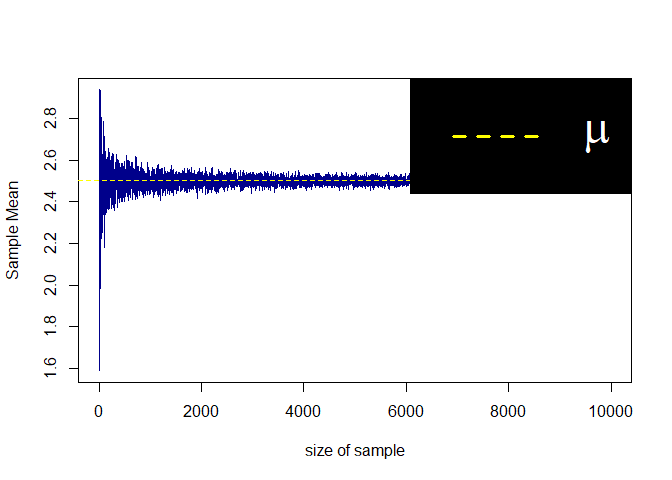
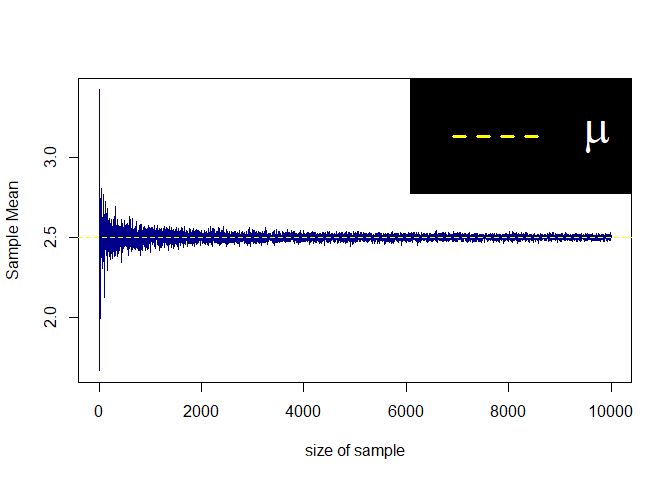
updated

diff --git a/create_matrix_triangular_simulate_Normal_Restricted.html b/create_matrix_triangular_simulate_Normal_Restricted.html
@@ -659,8 +659,8 @@ arguments.</h4>
 <span id="cb5-12"><a href="#cb5-12" aria-hidden="true" tabindex="-1"></a>}</span>
 <span id="cb5-13"><a href="#cb5-13" aria-hidden="true" tabindex="-1"></a>s <span class="ot">&lt;-</span> <span class="fu">create_normal_restrict</span>(<span class="at">size =</span> <span class="dv">10</span>, <span class="at">Mu =</span> <span class="dv">0</span>, <span class="at">Sig =</span> <span class="dv">2</span>, <span class="at">a =</span> <span class="dv">2</span>, <span class="at">b =</span> <span class="dv">4</span>)</span>
 <span id="cb5-14"><a href="#cb5-14" aria-hidden="true" tabindex="-1"></a>s</span></code></pre></div>
-<pre><code>##  [1] 3.052545 3.152677 2.841796 2.597047 3.216420 3.803350 3.361150 2.828218
-##  [9] 2.246507 3.528270 2.176596</code></pre>
+<pre><code>##  [1] 2.198382 3.666525 3.419035 2.260756 2.210368 2.087077 3.543708 3.633252
+##  [9] 3.591801 2.840085 2.103060</code></pre>
 <div class="sourceCode" id="cb7"><pre class="sourceCode r"><code class="sourceCode r"><span id="cb7-1"><a href="#cb7-1" aria-hidden="true" tabindex="-1"></a><span class="fu">all</span>(s <span class="sc">&gt;</span> <span class="dv">2</span>) <span class="sc">&amp;&amp;</span> <span class="fu">all</span>(s <span class="sc">&lt;</span> <span class="dv">4</span>)</span></code></pre></div>
 <pre><code>## [1] TRUE</code></pre>
 <hr />
@@ -680,9 +680,9 @@ arguments.</h4>
 <span id="cb9-12"><a href="#cb9-12" aria-hidden="true" tabindex="-1"></a>}</span>
 <span id="cb9-13"><a href="#cb9-13" aria-hidden="true" tabindex="-1"></a>s <span class="ot">&lt;-</span> <span class="fu">create_normal_restrict</span>(<span class="at">size =</span> <span class="dv">20</span>, <span class="at">Mu =</span> <span class="dv">2</span>, <span class="at">Sig =</span> <span class="dv">3</span>, <span class="at">a =</span> <span class="dv">3</span>, <span class="at">b =</span> <span class="dv">5</span>)</span>
 <span id="cb9-14"><a href="#cb9-14" aria-hidden="true" tabindex="-1"></a>s</span></code></pre></div>
-<pre><code>##  [1] 4.279872 3.157285 4.485590 3.151667 3.479212 3.408565 4.241121 3.784406
-##  [9] 3.970894 3.320588 3.551378 3.783441 3.564179 4.177438 3.124133 4.996380
-## [17] 3.011841 3.521824 3.351093 4.633351</code></pre>
+<pre><code>##  [1] 3.601853 4.881067 3.756975 4.592548 4.887475 3.901063 3.212241 3.064122
+##  [9] 3.012755 3.548587 4.755485 3.475494 3.815874 3.689829 4.308102 4.139682
+## [17] 3.963975 3.904174 3.428803 4.154396</code></pre>
 <div class="sourceCode" id="cb11"><pre class="sourceCode r"><code class="sourceCode r"><span id="cb11-1"><a href="#cb11-1" aria-hidden="true" tabindex="-1"></a><span class="fu">all</span>(s <span class="sc">&gt;</span> <span class="dv">3</span>) <span class="sc">&amp;&amp;</span> <span class="fu">all</span>(s <span class="sc">&lt;</span> <span class="dv">5</span>)</span></code></pre></div>
 <pre><code>## [1] TRUE</code></pre>
 <hr />
@@ -707,27 +707,27 @@ prove the weak law of large numbers</h4>
 <span id="cb13-16"><a href="#cb13-16" aria-hidden="true" tabindex="-1"></a>}</span>
 <span id="cb13-17"><a href="#cb13-17" aria-hidden="true" tabindex="-1"></a></span>
 <span id="cb13-18"><a href="#cb13-18" aria-hidden="true" tabindex="-1"></a>Result <span class="ot">&lt;-</span> <span class="fu">Weak_law_large_num</span>(<span class="at">size =</span> <span class="fl">1e+4</span>, <span class="at">Mu =</span> <span class="fl">2.5</span>, <span class="at">showPlot =</span> T) </span></code></pre></div>
[2 lines of base64/hex data omitted]
 <div class="sourceCode" id="cb14"><pre class="sourceCode r"><code class="sourceCode r"><span id="cb14-1"><a href="#cb14-1" aria-hidden="true" tabindex="-1"></a>E <span class="ot">&lt;-</span> Result<span class="sc">$</span>list_result</span>
 <span id="cb14-2"><a href="#cb14-2" aria-hidden="true" tabindex="-1"></a>E[[<span class="dv">5</span>]]</span></code></pre></div>
-<pre><code>## [1] 1.689949 2.011948 2.958791 1.338709 2.319952</code></pre>
+<pre><code>## [1] 1.782495 2.694781 3.797808 3.729486 1.479509</code></pre>
 <div class="sourceCode" id="cb16"><pre class="sourceCode r"><code class="sourceCode r"><span id="cb16-1"><a href="#cb16-1" aria-hidden="true" tabindex="-1"></a>E[[<span class="dv">10</span>]]</span></code></pre></div>
-<pre><code>##  [1] 2.866425 1.396811 5.020024 2.701937 1.814469 3.827689 2.784728 2.185148
-##  [9] 2.031921 1.913772</code></pre>
+<pre><code>##  [1] 2.799118 1.642318 2.617260 1.040967 3.615583 2.518560 2.865432 3.579252
+##  [9] 1.051340 4.415267</code></pre>
 <div class="sourceCode" id="cb18"><pre class="sourceCode r"><code class="sourceCode r"><span id="cb18-1"><a href="#cb18-1" aria-hidden="true" tabindex="-1"></a>E[[<span class="dv">20</span>]]</span></code></pre></div>
-<pre><code>##  [1] -0.4829301  4.0468436  3.0461689  2.6099620  1.5166851  2.4218403
-##  [7]  4.6233172  0.8834062  3.1885865  2.7486370  4.6068982  1.8252190
-## [13]  2.3245541  2.6008667  2.2467537  3.0760220  2.4866580  3.9017023
-## [19]  3.1929782  2.8067127</code></pre>
+<pre><code>##  [1] 3.1231454 2.2009263 3.3762097 0.5486886 1.7647368 1.5196758 1.1547574
+##  [8] 3.0509802 3.1959233 2.9478989 1.1680538 2.7879512 2.2539875 2.5331322
+## [15] 3.3998055 2.8128615 0.9867592 2.8868465 2.5796515 2.6124610</code></pre>
 <div class="sourceCode" id="cb20"><pre class="sourceCode r"><code class="sourceCode r"><span id="cb20-1"><a href="#cb20-1" aria-hidden="true" tabindex="-1"></a>E[[<span class="dv">50</span>]]</span></code></pre></div>
-<pre><code>##  [1] 3.0482558 3.0092611 3.4812892 2.5744753 3.9000371 2.8078498 3.0718179
-##  [8] 1.1901736 0.9488820 0.6080001 1.9051153 1.7290454 2.6392676 1.8903783
-## [15] 3.6032881 1.7702794 3.5558105 1.1082847 1.9302871 2.8032129 2.8665783
-## [22] 2.8050780 0.9506473 1.7567201 2.0540655 3.4356916 1.7146090 3.8863378
-## [29] 3.5528911 2.5807447 1.8096929 1.6556153 2.6984574 3.7222788 1.0007015
-## [36] 4.5876349 3.1035509 1.0726483 3.3122388 3.0543158 3.8612304 1.6195883
-## [43] 3.5718243 2.6007603 3.0963501 1.5667235 1.5169648 1.5211120 2.6253449
-## [50] 1.6726263</code></pre>
+<pre><code>##  [1]  1.5603158  4.0768480  3.2679329  1.7507213  2.5894618  3.0990305
+##  [7]  2.3953479  4.2604059  0.8100365  2.5822356  2.9867678  3.7881507
+## [13]  3.2239732  2.5334119  2.9037210  1.6573594  3.1928371  2.5978107
+## [19]  2.0015604  2.0525733  0.5642251 -0.3911290  2.0646053  1.0759017
+## [25]  2.3534590  2.9202037  2.4537053  1.9779762  1.3248030  2.6708257
+## [31]  0.8033547  4.3050472  2.7461535  2.6235290  4.7791585  1.7581680
+## [37]  1.7929447  3.2217407  2.4499157  1.3935631  1.9958611  2.9233392
+## [43]  2.6157190  2.5618201  2.3563996  4.1982662  0.3527116  1.4593430
+## [49]  3.5927794  3.4663489</code></pre>
 
 </body>
 </html>

diff --git a/create_matrix_triangular_simulate_Normal_Restricted.md b/create_matrix_triangular_simulate_Normal_Restricted.md
@@ -67,8 +67,8 @@ s <- create_normal_restrict(size = 10, Mu = 0, Sig = 2, a = 2, b = 4)
 s
 ```
 
-    ##  [1] 3.052545 3.152677 2.841796 2.597047 3.216420 3.803350 3.361150 2.828218
-    ##  [9] 2.246507 3.528270 2.176596
+    ##  [1] 2.198382 3.666525 3.419035 2.260756 2.210368 2.087077 3.543708 3.633252
+    ##  [9] 3.591801 2.840085 2.103060
 
 ``` r
 all(s > 2) && all(s < 4)
@@ -99,9 +99,9 @@ s <- create_normal_restrict(size = 20, Mu = 2, Sig = 3, a = 3, b = 5)
 s
 ```
 
-    ##  [1] 4.279872 3.157285 4.485590 3.151667 3.479212 3.408565 4.241121 3.784406
-    ##  [9] 3.970894 3.320588 3.551378 3.783441 3.564179 4.177438 3.124133 4.996380
-    ## [17] 3.011841 3.521824 3.351093 4.633351
+    ##  [1] 3.601853 4.881067 3.756975 4.592548 4.887475 3.901063 3.212241 3.064122
+    ##  [9] 3.012755 3.548587 4.755485 3.475494 3.815874 3.689829 4.308102 4.139682
+    ## [17] 3.963975 3.904174 3.428803 4.154396
 
 ``` r
 all(s > 3) && all(s < 5)
@@ -143,33 +143,33 @@ E <- Result$list_result
 E[[5]]
 ```
 
-    ## [1] 1.689949 2.011948 2.958791 1.338709 2.319952
+    ## [1] 1.782495 2.694781 3.797808 3.729486 1.479509
 
 ``` r
 E[[10]]
 ```
 
-    ##  [1] 2.866425 1.396811 5.020024 2.701937 1.814469 3.827689 2.784728 2.185148
-    ##  [9] 2.031921 1.913772
+    ##  [1] 2.799118 1.642318 2.617260 1.040967 3.615583 2.518560 2.865432 3.579252
+    ##  [9] 1.051340 4.415267
 
 ``` r
 E[[20]]
 ```
 
-    ##  [1] -0.4829301  4.0468436  3.0461689  2.6099620  1.5166851  2.4218403
-    ##  [7]  4.6233172  0.8834062  3.1885865  2.7486370  4.6068982  1.8252190
-    ## [13]  2.3245541  2.6008667  2.2467537  3.0760220  2.4866580  3.9017023
-    ## [19]  3.1929782  2.8067127
+    ##  [1] 3.1231454 2.2009263 3.3762097 0.5486886 1.7647368 1.5196758 1.1547574
+    ##  [8] 3.0509802 3.1959233 2.9478989 1.1680538 2.7879512 2.2539875 2.5331322
+    ## [15] 3.3998055 2.8128615 0.9867592 2.8868465 2.5796515 2.6124610
 
 ``` r
 E[[50]]
 ```
 
-    ##  [1] 3.0482558 3.0092611 3.4812892 2.5744753 3.9000371 2.8078498 3.0718179
-    ##  [8] 1.1901736 0.9488820 0.6080001 1.9051153 1.7290454 2.6392676 1.8903783
-    ## [15] 3.6032881 1.7702794 3.5558105 1.1082847 1.9302871 2.8032129 2.8665783
-    ## [22] 2.8050780 0.9506473 1.7567201 2.0540655 3.4356916 1.7146090 3.8863378
-    ## [29] 3.5528911 2.5807447 1.8096929 1.6556153 2.6984574 3.7222788 1.0007015
-    ## [36] 4.5876349 3.1035509 1.0726483 3.3122388 3.0543158 3.8612304 1.6195883
-    ## [43] 3.5718243 2.6007603 3.0963501 1.5667235 1.5169648 1.5211120 2.6253449
-    ## [50] 1.6726263
+    ##  [1]  1.5603158  4.0768480  3.2679329  1.7507213  2.5894618  3.0990305
+    ##  [7]  2.3953479  4.2604059  0.8100365  2.5822356  2.9867678  3.7881507
+    ## [13]  3.2239732  2.5334119  2.9037210  1.6573594  3.1928371  2.5978107
+    ## [19]  2.0015604  2.0525733  0.5642251 -0.3911290  2.0646053  1.0759017
+    ## [25]  2.3534590  2.9202037  2.4537053  1.9779762  1.3248030  2.6708257
+    ## [31]  0.8033547  4.3050472  2.7461535  2.6235290  4.7791585  1.7581680
+    ## [37]  1.7929447  3.2217407  2.4499157  1.3935631  1.9958611  2.9233392
+    ## [43]  2.6157190  2.5618201  2.3563996  4.1982662  0.3527116  1.4593430
+    ## [49]  3.5927794  3.4663489
